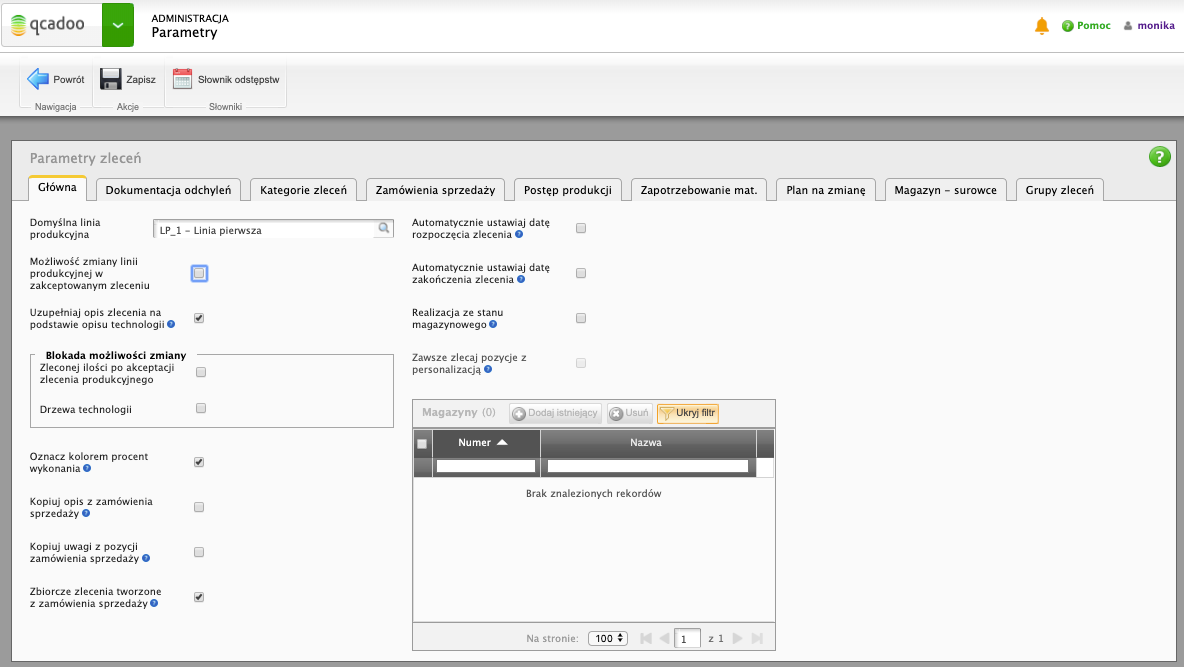
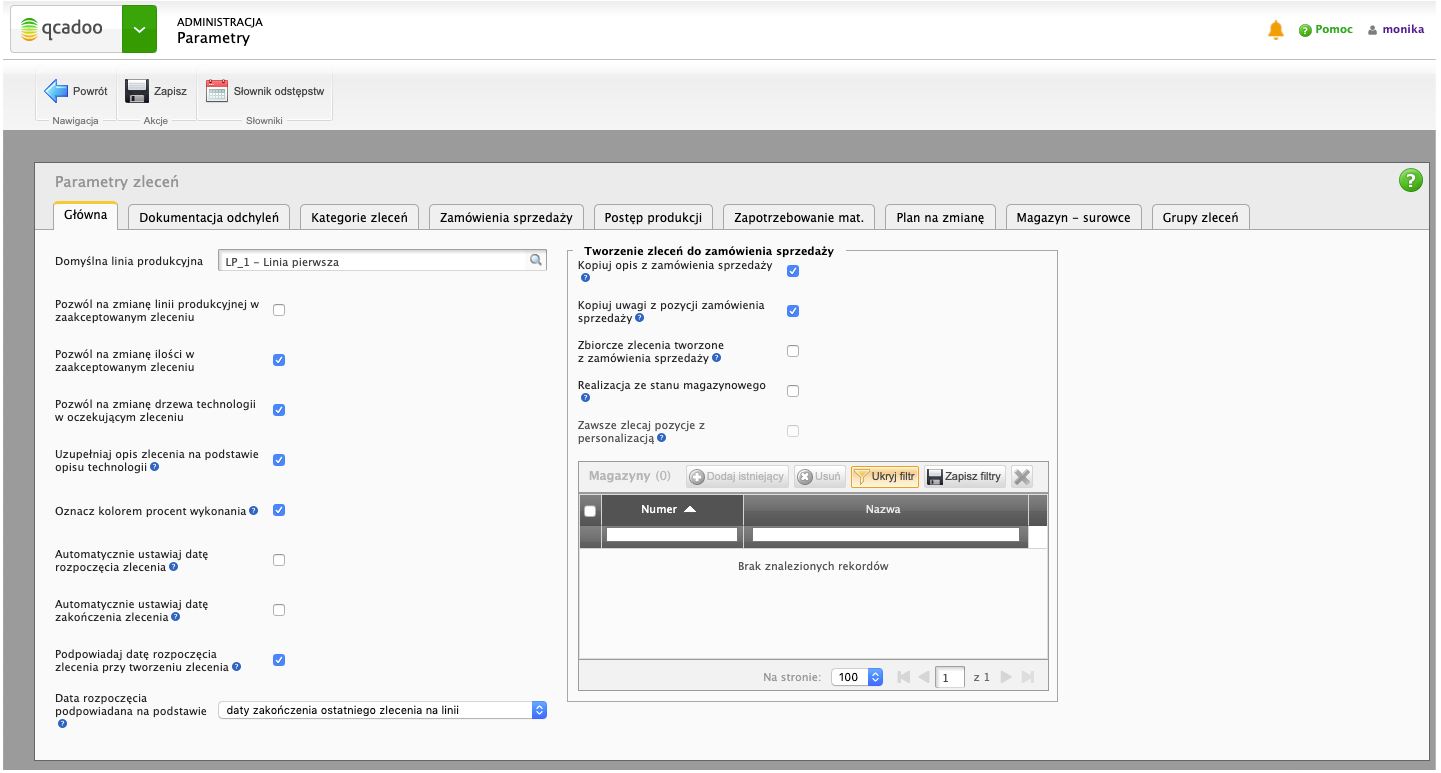
import zleceń nadrzędnych, operacji, podpowiadanie daty rozpoczęcia w zleceniu, parametry dashboardu i inne nowości

diff --git a/pages/planowanie/zlecenia-produkcyjne/zlecenia-produkcyjne.md b/pages/planowanie/zlecenia-produkcyjne/zlecenia-produkcyjne.md
@@ -146,6 +146,12 @@ Tak przygotowany plik zaciągnij do qcadoo. Wszystkie utworzone zlecenia otrzyma
 
 Każde zlecenie produkcyjne musi mieć określone daty realizacji - musimy wiedzieć kiedy planujesz rozpocząć i skończyć prace. Możesz daty określić ręcznie bazując na swoim doświadczeniu. Możesz też skorzystać z pomocy funkcji qcadoo, które pomogą Ci w tym zakresie.
 
+Pierwsza pomoc dotyczyć będzie ustawienia daty rozpoczęcia - zaznacz [parametr](/parametry-zlecen.html#główna) **Podpowiadaj datę rozpoczęcia zlecenia przy tworzeniu zlecenia** i wskaż na podstawie czego data ma być ustalana, a w momencie zapisu, gdy pole z datą będzie puste, uzupełnimy albo datę aktualną, albo datę rozpoczęcia pracy w następnym dniu roboczym, albo datę zakończenia ostatniego zlecenia na tej linii.
+
+Data rozpoczęcia może też przenieść się z zamówienia sprzedaży - jeśli będziesz korzystać z opcji generowania zleceń do zamówienia.
+
+Czas na ustalenie daty zakończenia.
+
 {% include lightbox.html file="czasoch%C5%82onno%C5%9B%C4%87-%20strza%C5%82ki.png" alt="Formularz czasochłnności" caption="Formularz czasochłonności" class="float-right" %}
 
 Pierwszym sposobem jest skorzystanie z **kalkulacji czasochłonności**. Funkcja na podstawie zdefiniowanych norm czasowych w operacji technologii wyznaczy czas trwania zlecenia, od podanej przez Ciebie daty rozpoczęcia (wyznaczając tym samym datę zakończenia). 
@@ -169,60 +175,56 @@ Ponadto pomocnym przy wyznaczaniu dat realizacji będzie **[wykres Gantta](/plan
 
 Zapewne zwróciłeś uwagę, że w zleceniu produkcyjnym jest bardzo dużo zakładek i funkcji na pasku narzędziowym. Z tego rozdziału dowiesz się do czego mogą Ci być potrzebne.
 
-1. **zakładka Rejestracja** - większość z ustawianych tu parametrów jest powieleniem [parametrów z administracji](/parametry-rejestracja-produkcji). Najważniejszy jest sposób rejestracji produkcji - oprócz tego, czy przy rejestracji będzie trzeba odnosić się do każdej operacji czy do całego zlecenia, decyduje również o podejściu do planowania. Jeśli chcesz planować całe zlecenia (na jedną linię/maszynę) i pozwolić na ich wybór w terminalu - ustaw zbiorczy sposób rejestracji. Jeśli ważne jest aby rozbić zlecenie na operacje, każdą z operacji przypisać do właściwej maszyny i pozwolić na wybór w terminalu zadania operacyjnego - ustaw rejestrację do każdej operacji.
+1. **zakładka Daty** - daty w zleceniu produkcyjnym mogą zmieniać się na każdym etapie życia zlecenia - zarówno podczas ustalania warunków produkcji, jak już po akceptacji, czy nawet już po rozpoczęciu prac. W zakładce Główna widzisz aktualne daty. W zakładce Daty zobaczysz jak wyglądały modyfikacje. Oprócz analizy zmian dat możesz zostawiać tu przyczyny zmian (a nawet wymusić ich zostawianie odpowiednio ustawiając [parametry](/parametry-zlecen.html#dokumentacja-odchyleń)). W tym temacie zerknij też w [raport odchyleń planu](/raport-odchylen-planu).
 
-
-2. **zakładka Daty** - daty w zleceniu produkcyjnym mogą zmieniać się na każdym etapie życia zlecenia - zarówno podczas ustalania warunków produkcji, jak już po akceptacji, czy nawet już po rozpoczęciu prac. W zakładce Główna widzisz aktualne daty. W zakładce Daty zobaczysz jak wyglądały modyfikacje. Oprócz analizy zmian dat możesz zostawiać tu przyczyny zmian (a nawet wymusić ich zostawianie odpowiednio ustawiając [parametry](/parametry-zlecen.html#dokumentacja-odchyleń)). W tym temacie zerknij też w [raport odchyleń planu](/raport-odchylen-planu).
-
-
-3. **zakładka Ilość produktu** - w zakładce Główna widzisz aktualną ilość planowaną. Jeśli już po akceptacji zlecenia ilość była zmieniana zobaczysz ją jako ilość skorygowaną. Przy zmianie, podobnie jak w przypadku dat, można zostawić przyczynę korekty. 
+2. **zakładka Ilość produktu** - w zakładce Główna widzisz aktualną ilość planowaną. Jeśli już po akceptacji zlecenia ilość była zmieniana zobaczysz ją jako ilość skorygowaną. Przy zmianie, podobnie jak w przypadku dat, można zostawić przyczynę korekty. 
 Ponadto w zakładce widać:
 - ile już wyprodukowano (ilość z zaakceptowanych rekordów rejestracji)
 - jaki jest procent wykonania
 - ile zarejestrowano wyprodukowanych braków
 - ile pozostało jeszcze do wyprodukowania
 
+3. **zakładka Zamówienie sprzedaży** - zobaczysz tutaj z jakim zamówieniem sprzedaży dane zlecenie jest powiązane. Możesz tu również odłączyć zlecenie od zamówienia, czy spiąć je z zamówieniem.
 
-4. **zakładka Zamówienie sprzedaży** - zobaczysz tutaj z jakim zamówieniem sprzedaży dane zlecenie jest powiązane. Możesz tu również odłączyć zlecenie od zamówienia, czy spiąć je z zamówieniem.
+4. **zakładka Powiązane zlecenia** - w tabeli zobaczysz wszytkie powiązane zlecenia na komponenty
 
+5. **przycisk Technologia** - umożliwia naniesienie zmian w technologii tego zlecenia. Ze szczegółami zapoznasz się [tutaj](/parametry-dla-zlecenia).
 
-5. **zakładka Magazyn - surowce** - jeśli chcesz uruchamiać produkcję dopiero wtedy, gdy wszystkie surowce będą dostępne, to odznacz parametr. Nie pozwolimy wówczas zaakceptować zlecenia, gdy stany nie będą wystarczające.
+6. **przycisk Parametry zlecenia** - a w nim następujące zakładki:
+- **zakładka Rejestracja** - większość z ustawianych tu parametrów jest powieleniem [parametrów z administracji](/parametry-rejestracja-produkcji). Najważniejszy jest sposób rejestracji produkcji - oprócz tego, czy przy rejestracji będzie trzeba odnosić się do każdej operacji czy do całego zlecenia, decyduje również o podejściu do planowania. Jeśli chcesz planować całe zlecenia (na jedną linię/maszynę) i pozwolić na ich wybór w terminalu - ustaw zbiorczy sposób rejestracji. Jeśli ważne jest aby rozbić zlecenie na operacje, każdą z operacji przypisać do właściwej maszyny i pozwolić na wybór w terminalu zadania operacyjnego - ustaw rejestrację do każdej operacji.
+- **zakładka Magazyn - surowce** - jeśli chcesz uruchamiać produkcję dopiero wtedy, gdy wszystkie surowce będą dostępne, to odznacz parametr. Nie pozwolimy wówczas zaakceptować zlecenia, gdy stany nie będą wystarczające.
 
-6. **zakładka Powiązane zlecenia** - w tabeli zobaczysz wszytkie powiązane zlecenia na komponenty
+7. **przycisk Utwórz zadania operacyjne** - jeśli zależy Ci na tym aby pracownicy wybierali w terminalu zadania do wykonania, ale nie chcesz wykonywać planowania na stację roboczą i pracownika, możesz pójść na skróty - kliknij przycisk, a do każdej operacji z technologii zostanie założone zadanie operacyjne. Funkcja możliwa do wywołania dla zleceń zaakceptowanych z rejestracją do każdej operacji. 
 
-7. **przycisk Technologia** - umożliwia naniesienie zmian w technologii tego zlecenia. Ze szczegółami zapoznasz się [tutaj](/parametry-dla-zlecenia).
+8. **przycisk Pokaż zadania operacyjne** - pozwala na przeanalizowanie zadań operacyjnych powiązanych z danym zleceniem produkcyjnym. Zadania operacyjne opisane są [tutaj](/planowanie-operacyjne)
 
-8. **przycisk Utwórz zadania operacyjne** - jeśli zależy Ci na tym aby pracownicy wybierali w terminalu zadania do wykonania, ale nie chcesz wykonywać planowania na stację roboczą i pracownika, możesz pójść na skróty - kliknij przycisk, a do każdej operacji z technologii zostanie założone zadanie operacyjne. Funkcja możliwa do wywołania dla zleceń zaakceptowanych z rejestracją do każdej operacji. 
+9. **przycisk Przezbrojenia** - jeśli na podstawie zdefiniowanych [norm](/normy-przezbrojen) wynika, że przed rozpoczęciem zlecenia konieczne jest przezbrojenie linii, to taka informacja będzie dostępna pod tym przyciskiem.
 
-9. **przycisk Pokaż zadania operacyjne** - pozwala na przeanalizowanie zadań operacyjnych powiązanych z danym zleceniem produkcyjnym. Zadania operacyjne opisane są [tutaj](/planowanie-operacyjne)
+10. **przycisk Pokaż przestoje** - przycisk uruchamia listę [przestojów](/przestoje-zlecenia) zaewidencjonowanych do tego zlecenia.
 
-10. **przycisk Przezbrojenia** - jeśli na podstawie zdefiniowanych [norm](/normy-przezbrojen) wynika, że przed rozpoczęciem zlecenia konieczne jest przezbrojenie linii, to taka informacja będzie dostępna pod tym przyciskiem.
-
-11. **przycisk Pokaż przestoje** - przycisk uruchamia listę [przestojów](/przestoje-zlecenia) zaewidencjonowanych do tego zlecenia.
-
-12. **przycisk Ilości wyprodukowane/użyte** - w momencie akceptacji zlecenia produkcyjnego tworzy się jego szczegółowe zapotrzebowanie - czyli szczegółowo rozpisywana jest lista potrzebnych produktów do zlecenia oraz produktów, które będą efektem Twojej pracy. Podstawą do wygenerowania szczegółowego zapotrzebowania jest technologia. Od momentu akceptacji zlecenia technologia jest nie do zmiany - teraz wszelkie modyfikacje produktowe (np. wprowadzenie zamiennika) możesz przeprowadzać z tego poziomu. 
+11. **przycisk Ilości wyprodukowane/użyte** - w momencie akceptacji zlecenia produkcyjnego tworzy się jego szczegółowe zapotrzebowanie - czyli szczegółowo rozpisywana jest lista potrzebnych produktów do zlecenia oraz produktów, które będą efektem Twojej pracy. Podstawą do wygenerowania szczegółowego zapotrzebowania jest technologia. Od momentu akceptacji zlecenia technologia jest nie do zmiany - teraz wszelkie modyfikacje produktowe (np. wprowadzenie zamiennika) możesz przeprowadzać z tego poziomu. 
 Funkcjonalność przyda się również do analizy zaraportowanego zużycia czy wyprodukowania każdego z produktów w procesie. 
 Ze szczegółami działania zapoznasz się w tej [dokumentacji](/zmiana-stanu-zapotrzebowania).
 
-13. **przycisk Czasochłonność** - funkcjonalność opisana na etapie wyznaczania czasów realizacji zlecenia
+12. **przycisk Czasochłonność** - funkcjonalność opisana na etapie wyznaczania czasów realizacji zlecenia
 
-14. **przycisk Ceny** - skorzystasz z niego po to, by ustalić koszty materiałowe zlecenia. Przeanalizujesz tutaj: ostatnią cenę zakupu, cenę średnio ważoną czy przyjęty koszt nominalny. Ponadto:
+13. **przycisk Ceny** - skorzystasz z niego po to, by ustalić koszty materiałowe zlecenia. Przeanalizujesz tutaj: ostatnią cenę zakupu, cenę średnio ważoną czy przyjęty koszt nominalny. Ponadto:
 - dowiesz się jakie konkretne dokumenty RW zostały wystawione do zlecenia, o jakich partiach i jakich cenach
 - wyliczymy dla Ciebie TKW
 - zapiszesz w zleceniu dodatkowe koszty bezpośrednie, zwiększające koszty całkowite zlecenia
 Więcej informacji znajdziesz [tutaj](/ceny-materialow-dla-zlecenia)
 
-15. **przycisk Koszty** - pozwala na wyliczenie planowanych kosztów zlecenia na podstawie technologii. Po szczegóły odsyłam do [dokumentacji](/koszty-zlecenia).
+14. **przycisk Koszty** - pozwala na wyliczenie planowanych kosztów zlecenia na podstawie technologii. Po szczegóły odsyłam do [dokumentacji](/koszty-zlecenia).
 
-16. **przycisk Produkcja na zmianę** - daje możliwość rozplanowania produkcji ilości zleconej na kolejne zmiany. Do wykorzystania w firmach produkujących seryjnie, z dającą się wyliczyć na podstawie norm, wydajnością danej linii. Dokładniejsze wyjaśnienia i instrukcję znajdziesz [tutaj](/produkcja-na-zmiane).
+15. **przycisk Produkcja na zmianę** - daje możliwość rozplanowania produkcji ilości zleconej na kolejne zmiany. Do wykorzystania w firmach produkujących seryjnie, z dającą się wyliczyć na podstawie norm, wydajnością danej linii. Dokładniejsze wyjaśnienia i instrukcję znajdziesz [tutaj](/produkcja-na-zmiane).
 
-17. **przycisk Śledzenie partii** - jedno słowo - traceability. Chcesz więcej? Odsyłam do [dokumentacji](/sledzenie-partii-zlecenia).
+16. **przycisk Śledzenie partii** - jedno słowo - traceability. Chcesz więcej? Odsyłam do [dokumentacji](/sledzenie-partii-zlecenia).
 
-18. **przycisk Dostępność surowców** - pozwala na analizę stanów magazynowych surowców potrzebnych do produkcji. Sprawdzisz stan na magazynach, z których zaplanowano rozchód, ale też na pozostałych magazynach zakładu - na wypadek, gdyby trzeba było produktu poszukiwać.
+7. **przycisk Dostępność surowców** - pozwala na analizę stanów magazynowych surowców potrzebnych do produkcji. Sprawdzisz stan na magazynach, z których zaplanowano rozchód, ale też na pozostałych magazynach zakładu - na wypadek, gdyby trzeba było produktu poszukiwać.
 
-19. **przycisk Wydania wewnętrzne** - temat wydań wewnętrznych omówiony jest [tutaj](/wydania-wewnetrzne.html). Z tego poziomu możesz zobaczyć wydania utworzone dla danego zlecenia
+18. **przycisk Wydania wewnętrzne** - temat wydań wewnętrznych omówiony jest [tutaj](/wydania-wewnetrzne.html). Z tego poziomu możesz zobaczyć wydania utworzone dla danego zlecenia
 
-20. **przycisk Pokrycie zapotrzebowania** - umożliwa:
+19. **przycisk Pokrycie zapotrzebowania** - umożliwa:
 - ustalenie jakie surowce i komponenty będą potrzebne do produkcji
 - sprawdzenie, czy w momencie planowanego rozpoczęcia zlecenia produkty będą dostępne na magazynie (funkcjonalność analizuje nie tylko dane zlecenie, ale też inne otwarte zlecenia korzystające z danych produktów)
 - uzyskanie informacji o planowanych dostawach na potrzebne produkty 
@@ -231,7 +233,7 @@ Więcej informacji znajdziesz [tutaj](/ceny-materialow-dla-zlecenia)
 - ustalenie stanu magazynowego zamienników
 Po więcej odsyłam do tej [dokumentacji](/pokrycie-zapotrzebowania).
 
-21. **przycisk Zlecenia na komponenty** - jeśli zaplanowane w technologii komponenty chcesz produkować zawsze (niezależnie od tego, czy są na magazynie, czy nie), to do generowania zleceń na komponenty wybierz tą funkcjonalność.
+20. **przycisk Zlecenia na komponenty** - jeśli zaplanowane w technologii komponenty chcesz produkować zawsze (niezależnie od tego, czy są na magazynie, czy nie), to do generowania zleceń na komponenty wybierz tą funkcjonalność.
 
 Ponadto z listy zleceń możesz wygenerować: [zapotrzebowanie materiałowe](/zapotrzebowanie-materialowe) i [karty pracy](/karty-pracy).
 

diff --git a/pages/administracja/parametry/parametry-zlecenia.md b/pages/administracja/parametry/parametry-zlecenia.md
@@ -15,31 +15,38 @@ Do dyspozycji masz następujące parametry:
 
 1. **Domyślna linia produkcyjna** - ustaw tą linię, na której najczęściej realizujesz zlecenia. Podpowiemy Ci ją przy wystawianiu zlecenia produkcyjnego (ręcznie, a także przez generowanie ze zamówienia sprzedaży). Nie musisz linii uzupełniać tutaj. Jeśli potrafisz przypisać linię do technologii (wybierasz linię w zależności od tego jaki wyrób ma być produkowany) - uzupełnij ją w zasięgu. Podpowiadanie w zleceniu zadziała tak: jeśli w technologii uzupełniona linia, to ją zaciągamy do zlecenia. Jeśli nie - sprawdzamy, czy jest w administracji w parametrach podana domyślna - jeśli tak: zaciągamy do zlecenia. Jeśli nie - linię zostawiamy pustą, będziesz musiał ją wskazać przed akceptacją zlecenia.
 
-2. **Możliwość zmiany linii produkcyjnej w zaakceptowanym zleceniu** - zaznacz parametr jeśli chcesz pozwolić na ewentualne przesunięcia zaakceptowanego już zlecenia na inną linię. Jeśli nie - uznajesz, że zaakceptowane zlecenie nie powinno być już tak radykalnie zmieniane -> zostaw parametr niezaznaczony
+2. **Pozwól na zmianę linii produkcyjnej w zaakceptowanym zleceniu** - zaznacz parametr jeśli chcesz pozwolić na ewentualne przesunięcia zaakceptowanego już zlecenia na inną linię. Jeśli nie - uznajesz, że zaakceptowane zlecenie nie powinno być już tak radykalnie zmieniane -> zostaw parametr niezaznaczony
 
-3. **Uzupełniaj opis zlecenia na podstawie opisu technologii** - w technologii możesz wprowadzić opis. I możemy go podpowiedzieć do zlecenia, do pola opis (po to by pokazać pracownikom np. w terminalu) - jeśli chcesz, aby tak się stało, zaznacz parametr
+3. **Pozwól na zmianę ilości w zaakceptowanym zleceniu** - zaznacz jeśli chcesz pozwolić na zmianę ilości w zaakceptowanym zleceniu produkcyjnym
 
-4. **Blokada możliwości zmiany zleconej ilości po akceptacji zlecenia produkcyjnego** - zaznacz jeśli nie chcesz pozwolić na zmianę ilości w zaakceptowanym zleceniu produkcyjnym
+4. **Pozwól na zmianę drzewa technologii w oczekującym zleceniu** - qcadoo pozwala na zmianę technologii w zleceniu. Oznacza to, że standardowo produkt wytwarzany jest wg konkretnego sposobu, ale w wyjątkowych sytuacjach, pod dane zlecenie, można wprowadzić zmiany i wyprodukować wyrób trochę inaczej. Jeśli nie chcesz, aby pracownicy zmieniali technologię i żeby zawsze produkty były realizowane w tym sam sposób, nie zaznaczaj parametru, a nie pozwolimy na modyfikację technologii w zleceniu.
 
-5. **Blokada możliwości zmiany drzewa technologii** - qcadoo pozwala na zmianę technologii w zleceniu. Oznacza to, że standardowo produkt wytwarzany jest wg konkretnego sposobu, ale w wyjątkowych sytuacjach, pod dane zlecenie, można wprowadzić zmiany i wyprodukować wyrób trochę inaczej. Jeśli nie chcesz, aby pracownicy zmieniali technologię i żeby zawsze produkty były realizowane w tym sam sposób, zaznacz parametr, a nie pozwolimy na modyfikację technologii w zleceniu.
+5. **Uzupełniaj opis zlecenia na podstawie opisu technologii** - w technologii możesz wprowadzić opis. I możemy go podpowiedzieć do zlecenia, do pola opis (po to by pokazać pracownikom np. w terminalu) - jeśli chcesz, aby tak się stało, zaznacz parametr
 
-6. **Automatycznie ustawiaj datę rozpoczęcia zlecenia** - zaznacz parametr, jeśli chcesz, aby w zleceniu produkcyjnym ustawiła się aktualna data w momencie ustawiania statusu na rozpoczęte
+6. **Oznacz kolorem procent wykonania** - w liście [planowanych zleceń](/planowanie-zlecen) jest kolumna Wykonanie %. Przedstawia ona informację o tym ile procent ilości zleconej jest już wyprodukowane. Jeśli chcesz wzmocnić efekt - zaznacz parametr, a oznaczymy kolumnę kolorem. Czerwone będą te zlecenia, które nie są jeszcze rozpoczęte (0% wykonania), zielone - te już całkowicie zrealizowane (100% wykonania), a źółte te, dla których praca trwa (wykonanie między 0 a 100%)
 
-7. **Automatycznie ustawiaj datę zakończenia zlecenia** - zaznacz parametr, jeśli chcesz, abyśmy uzupełnili datę zakończenia zlecenia, w momencie ustawiania statusu na zakończone
+7. **Automatycznie ustawiaj datę rozpoczęcia zlecenia** - zaznacz parametr, jeśli chcesz, aby w zleceniu produkcyjnym ustawiła się aktualna data w momencie ustawiania statusu na rozpoczęte
 
-8. **Oznacz kolorem procent wykonania** - w liście [planowanych zleceń](/planowanie-zlecen) jest kolumna Wykonanie %. Przedstawia ona informację o tym ile procent ilości zleconej jest już wyprodukowane. Jeśli chcesz wzmocnić efekt - zaznacz parametr, a oznaczymy kolumnę kolorem. Czerwone będą te zlecenia, które nie są jeszcze rozpoczęte (0% wykonania), zielone - te już całkowicie zrealizowane (100% wykonania), a źółte te, dla których praca trwa (wykonanie między 0 a 100%)
+8. **Automatycznie ustawiaj datę zakończenia zlecenia** - zaznacz parametr, jeśli chcesz, abyśmy uzupełnili datę zakończenia zlecenia, w momencie ustawiania statusu na zakończone
 
-9. **Kopiuj opis z zamówienia sprzedaży** - zaznacz parametr, jeśli zlecenia produkcyjne utworzone z zamówienia sprzedaży mają otrzymać opis wprowadzony w zamówieniu sprzedazy
+9. **Podpowiadaj datę rozpoczęcia zlecenia przy tworzeniu zlecenia** - jeśli zaznaczysz parametr, to podczas dodawania zlecenia produkcyjnego podpowiemy Ci datę rozpoczęcia. Wskaż niżej jaka ma być ta data.
 
-10. **Kopiuj uwagi z pozycji zamówienia sprzedaży** - zaznacz parametr, jeśli chcesz, aby uwagi wprowadzone w pozycji zamówienia sprzedaży, zostały przeniesione do opisu zlecenia produkcyjnego (utworzonego poprzez funkcję Utwórz wiele zleceń produkcyjnych)
+10. **Data rozpoczęcia podpowiadana na podstawie** - lista uaktywni się, gdy zaznaczysz parametr Podpowiadaj datę rozpoczęcia zlecenia przy tworzeniu zlecenia. Do wyboru masz:
+- _aktualnej daty_ - data rozpoczęcia zostanie ustawiona na podstawie momentu zapisu zlecenia
+- _początku pierwszej zmiany kolejnego dnia_ - podpowiemy datę początku Twojej pracy następnego dnia (czyli przyda się ta opcja, gdy dziś zakładasz zlecenia na jutro)
+- _daty zakończenia ostatniego zlecenia na linii_ - namierzymy ostatnie zlecenie na linii produkcyjnej i to dodawane układamy bezpośrednio po nim. Jeśli dodatkowo będziesz wyliczać czas trwania w qcadoo na podstawie [produkcji na zmianę](/produkcja-na-zmiane) albo [czasochłonności technologii](/czasochlonnosc-zlecenia) to w łatwy sposób ustalisz kompletny plan produkcyjny.
 
-11. **Zbiorcze zlecenia tworzone z zamówienia sprzedaży** - zaznacz parametr jeśli chcesz, aby podczas tworzenia zleceń do zamówień sprzedaży, zbijały się one w zbiorcze z dokładnością do tego samego produktu i tej samej technologii
+11. **Kopiuj opis z zamówienia sprzedaży** - zaznacz parametr, jeśli zlecenia produkcyjne utworzone z zamówienia sprzedaży mają otrzymać opis wprowadzony w zamówieniu sprzedazy
 
-12. **Realizacja ze stanu magazynowego** - zaznacz parametr jeśli chcesz, aby funkcja tworzenia wielu zleceń produkcyjnych do zamówienia sprzedaży sprawdzała, czy zamówiony produkt trzeba produkować, czy można pobrać z istniejacego stanu magazynowego. Zlecenia produkcyjne będą utworzone tylko na tą część zamówionych produktów, dla których nie został zabezpieczony stan magazynowy. Jeśli chcesz aby funkcja realizacji ze stanu magazynowego działała poprawnie, wskaż w tabeli poniżej na jakich magazynach mamy sprawdzać dostępny stan. Funkcja ta analizuje tylko stany zachowane w qcadoo - nie sprawdza stanów w systemie zewnętrznym.
+12. **Kopiuj uwagi z pozycji zamówienia sprzedaży** - zaznacz parametr, jeśli chcesz, aby uwagi wprowadzone w pozycji zamówienia sprzedaży, zostały przeniesione do opisu zlecenia produkcyjnego (utworzonego poprzez funkcję Utwórz wiele zleceń produkcyjnych)
 
-13. **Zawsze zlecaj pozycje z personalizacją** - parametr uaktywni się po zaznaczeniu _Realizacja ze stanu magazynowego_. Jeśli w uwagach pozycji zamówienia sprzedaży wprowadzasz szczegóły zamówionego produktu, które sprawiają, że produkt wymaga zmian w procesie produkcyjnym specjalnie na życzenie klienta (czyli produkt musi zostać wyprodukowany i nie może być pobrany ze stanu produkt standardowy), to zaznacz parametr, a zawsze do tej pozycji utworzymy zlecenie produkcyjne na ilość zamówioną przez klienta
+13. **Zbiorcze zlecenia tworzone z zamówienia sprzedaży** - zaznacz parametr jeśli chcesz, aby podczas tworzenia zleceń do zamówień sprzedaży, zbijały się one w zbiorcze z dokładnością do tego samego produktu i tej samej technologii
 
-14. **Magazyny** - tabela uaktywnia się po zaznaczeniu parametru _Realizacja ze stanu magazynowego_. Podaj magazyny, na których mamy poszukiwać dostępnego stanu zamówionych produktów
+14. **Realizacja ze stanu magazynowego** - zaznacz parametr jeśli chcesz, aby funkcja tworzenia wielu zleceń produkcyjnych do zamówienia sprzedaży sprawdzała, czy zamówiony produkt trzeba produkować, czy można pobrać z istniejacego stanu magazynowego. Zlecenia produkcyjne będą utworzone tylko na tą część zamówionych produktów, dla których nie został zabezpieczony stan magazynowy. Jeśli chcesz aby funkcja realizacji ze stanu magazynowego działała poprawnie, wskaż w tabeli poniżej na jakich magazynach mamy sprawdzać dostępny stan. Funkcja ta analizuje tylko stany zachowane w qcadoo - nie sprawdza stanów w systemie zewnętrznym.
+
+15. **Zawsze zlecaj pozycje z personalizacją** - parametr uaktywni się po zaznaczeniu _Realizacja ze stanu magazynowego_. Jeśli w uwagach pozycji zamówienia sprzedaży wprowadzasz szczegóły zamówionego produktu, które sprawiają, że produkt wymaga zmian w procesie produkcyjnym specjalnie na życzenie klienta (czyli produkt musi zostać wyprodukowany i nie może być pobrany ze stanu produkt standardowy), to zaznacz parametr, a zawsze do tej pozycji utworzymy zlecenie produkcyjne na ilość zamówioną przez klienta
+
+16. **Magazyny** - tabela uaktywnia się po zaznaczeniu parametru _Realizacja ze stanu magazynowego_. Podaj magazyny, na których mamy poszukiwać dostępnego stanu zamówionych produktów
 
 ---
 

diff --git a/pages/technologie/operacje/operacje.md b/pages/technologie/operacje/operacje.md
@@ -1,10 +1,9 @@
 ---
 title: "Operacje"
 permalink: operacje.html 
-toc: false
 ---
 
-"Operacje" gromadzą opisy wszystkich prac obserwowanych na produkcji, wykonywanych zarówno przy udziale maszyn jak i przez samych pracowników. Operacje wprowadzamy oddzielnie definiując dla każdej czasy i koszty ich wykonania, tutaj możemy także określić informacje jakie chcemy mieć zawarte na kartach pracy. 
+Operacje gromadzą opisy wszystkich prac realizowanych na produkcji, wykonywanych zarówno przy udziale maszyn jak i przez samych pracowników. Operacje wprowadzamy oddzielnie, definiując dla każdej czasy i koszty ich wykonania. To tutaj możemy także określić informacje jakie chcemy mieć zawarte na kartach pracy. 
 
 
 ## Dodawanie nowej operacji ##    
@@ -34,3 +33,32 @@ Operacje wprowadzone w tym miejscu traktuj jako szablony - dopiero utworzenie z 
 Zaciągnięcie operacji do drzewa technologii tworzy osobny byt: operację technologii. Możesz zmieniać operację w drzewie (podając np. inne normy czasowe), a nie wpłynie to na zmianę operacji - szablonu. Podobnie --> modyfikując operację - szablon, nie zostaną zmienione żadne operacje użyte w technologiach. 
 
 {% include callout.html content="Jeśli chcesz zmienić operację (np. pod kątem norm czasowych) i chcesz aby te zmiany obowiązywały w technologiach, to oprócz modyfikacji w operacjach - szablonach, musisz nanieść zmiany w istniejących technologiach. Jeśli status technologii nie pozwala na edycję - stwórz przez kopiowanie jej nową wersję, wprowadź poprawki i zaakceptuj. Warto też zaznaczyć nową wersję jako domyślną, a starą wycofać" type="warning" %}
+
+
+## Import operacji z pliku Excel
+
+Import z akrusza .xlsx znasz już zapewne z innych miejsc w systemie --> o tym jak wygląda proces importu dowiesz się czytając tą [dokumentację]((/import-z-excel)). 
+
+Operacje możesz albo zdefiniować korzystając z arkusza, albo możesz je poprzez import zaktualizować. Druga opcja przyda Ci się szczególnie wtedy, gdy chcesz dostosować normy czasowe do bieżącej sytuacji (np. po przeanalizowaniu danych z rozliczenia produkcji z dłuższego okresu). Taka modyfikacja, wraz z [zbiorczą zmianą parametrów](/zmiana-parametrow) pozwoli Ci na szybkie odświeżenie technologii.
+
+Aby zaimportować operacje z pliku Excel wejdź w **Technologie > Operacje**, kliknij przycisk {% include inline_image.html file="przyciskImportujOperacjeXLSX.png" alt="Przycisk Importuj operacje z .xlsx" %} **Importuj operacje z .xlsx**, pobierz szablon i wypełnij go danymi. Koniecznie uzupełnij dwie pierwsze kolumny:
+- **numer** (kolumna A) - musi być unikalny (czyli dana numer operacji może wystąpić tylko raz). Pamiętaj, że numer nie musi być liczbą, potraktuj to pole jako skrótową nazwę, taką, po której użytkownicy będą rozpoznawać daną czynność
+- **nazwa** (kolumna B) - pełna nazwa operacji. Może być tożsama z numerem.
+
+Możesz dodatkowo wskazać następujące dane:
+- **produkt** (kolumna C) - numer produktu zdefiniowanego w qcadoo. Produkt ten podpowiemy w [drzewie technologii](/technologie-szczegoly.html#budowa-drzewa-technologii) jako efekt wyjściowy tej operacji,
+- **opis** (kolumna D) - dodatkowe informacje o sposobie wykonania operacji.
+- **dział** (kolumna E) - numer działu zdefiniowanego w qcadoo,
+- **linia** (kolumna F) - numer linii zdefiniowanej w qcadoo. Wskazana linia musi należeć do popdanego wyżej działu
+- **stacja robocza** (kolumna G) - numer stacji roboczej zdefiniowanej w qcadoo. Wskazana stacja robocza musi należeć do podanej wyżej linii. 
+
+{% include callout.html content="Dział, linia i stacja robocza uzupełniane są po to, by w technologii mogły z automatu uzupełnić się informacje o zasięgu i by podczas układania planu produkcyjnego wiadomo było, gdzie czynność ma być realizowana." type="warning" %}
+
+- **TPZ** (kolumna H) - podaj w sekundach czas przygotowawczo-zakończeniowy operacji,
+- **TJ** (kolumna I) - podaj w sekundach czas jednostkowy operacji (wykonania pojedynczego cyklu),
+- **ile w cyklu** (kolumna J) - podaj ile jednostek produktu wykonywanych jest w jednym cyklu,
+- **dodatkowy czas** (kolumna K) - podaj w sekundach dodatkowy czas, który musi upłynąć, aby móc zrealizować kolejną operację w drzewie technologii.
+
+{% include callout.html content="Dane: TPZ, TJ, ile w cyklu i dodatkowy czas to informacje zapisywane w zakładce [normy czasowe](/normy-czasowe) operacji." type="warning" %}
+
+Tak przygotowany plik zaciągnij do qcadoo i wykonaj funkcję importu. W razie błędów - przeanalizuj logi, popraw dane w pliku i spróbuj ponownie.

diff --git a/pages/administracja/parametry/parametry-technologia.md b/pages/administracja/parametry/parametry-technologia.md
@@ -5,6 +5,24 @@ permalink: parametry-technologia.html
 
 Jeśli produkujesz wyroby z oznaczeniem rozmiarowym, a także wykorzystujesz do definiowania technologii generatora, to zapewne zainteresuje Cię parametr znajdujący się w Administracja > Parametry > Technologia
 
-{% include lightbox.html file="administracjaParametryTechnologia.png" alt="Parametry technologii" caption="Parametry technologii" %}
+## Główna
 
-1. **Przenoś rozmiar do utworzonych z generatora produktów** - jeśli zaznaczysz parametr, to wszystkie półprodukty z automatu utworzone przez generator dostaną takie rozmiary, jak wyrób dla którego tworzona jest technologia
+W zakładce Główna znajdują się ogólne parametry do technologii.
+
+{% include lightbox.html file="administracjaParametryTechnologiaGlowna.png" alt="Parametry technologii - zakładka Główna" caption="Parametry technologii - zakładka Główna" %}
+
+1. **Uzupełniaj magazyny dla produktów w przepływie podczas sprawdzania technologii** - zaznacz parametr jeśli chcesz, abyśmy z automatu (podczas sprawdzania technologii) wywoływali funkcję uzupełniania magazynów w zakładce _Przepływ_ w technologii. Nie będziesz musiał wtedy klikać każdorazowo przycisku _Uzupełnij magazyny w produktach_. Pamiętaj, że gdy w procesie korzystasz z różnych magazynów (do jednej operacji pobierasz produkty z różnych lokalizacji) to zaznaczenie tego parametru nie jest dobrym pomysłem - sprawdzenie technologii spowoduje nadpisanie Twoich ręcznych zmian w przepływach, wartościami domyślnymi.
+
+2. **Przenoś rozmiar do utworzonych z generatora produktów** - jeśli zaznaczysz parametr, to wszystkie półprodukty z automatu utworzone przez generator dostaną takie rozmiary, jak wyrób dla którego tworzona jest technologia
+
+## Zasięg
+
+W zakładce zasięg możesz ustawić wartości domyślne dla zasięgu definiowanego w technologiach.
+
+{% include lightbox.html file="administracjaParametryTechnologiaZasieg.png" alt="Parametry technologii - zakładka Zasięg" caption="Parametry technologii - zakładka Zasięg" %}
+
+1. **Zasięg** - do wyboru: 
+- _jeden dział_ - jeśli cała produkcja będzie realizowana na tym samym dziale, albo (gdy informacja o dziale ma dla Ciebie drugorzędne znaczenie), gdy wszystkie surowce będą pobierane z tego samego magazynu
+- _wiele działów_ - jeśli produkcja realizowana jest z wielu działów, a surowce pobierane do produkcji pobierane są z różnych magazynów (takich jak przypisane do działu)
+
+2. **Dział** - pole uaktywni się, gdy zasięg = jeden dział. Wskaż jaki dział domyślnie mamy podpowiadać podczas tworzenia technologii. Jeśli dział ten będzie miał przypisane magazyny - od razu zostaną uzupełnione informacje w przepływach technologii. Jeśli dodatkowo zaznaczysz parametr Uzupełniaj magazyny dla produktów w przepływie podczas sprawdzania technologii magazyny zostaną z automatu przypisane do produktów. A tworzenie technologii znacznie się przyspieszy.

diff --git a/pages/analizy/rozliczenie-produkcji.md b/pages/analizy/rozliczenie-produkcji.md
@@ -7,7 +7,7 @@ Rozliczanie produkcji przynosi dwie korzyści.
 - na podstawie zbieranych danych można zrewidować i uczynić bliższymi prawdy nasze założenia produkcyjne co do czasów realizacji zleceń i ilości potrzebnych surowców
 - wiadomo ile faktycznie kosztowało nas zrealizowanie danego zlecenia produkcyjnego i wyeliminowanie na przyszłość zbędne koszty
 
-Funkcjonalność " **Rozliczenie produkcji**" pozwala również na tworzenie i gromadzenie raportów i zestawień z rejestracji produkcji (dla wariantów: "zbiorczego" i "dla każdej operacji"). 
+Funkcjonalność "**Rozliczenie produkcji**" pozwala również na tworzenie i gromadzenie raportów i zestawień z rejestracji produkcji (dla wariantów: "zbiorczego" i "dla każdej operacji"). 
   
 {% include callout.html content="Gdy tworzymy raport rozliczenia produkcji dla danego zlecenia/zleceń produkcyjnego/produkcyjnych, bierzemy pod uwagę tylko zarejestrowane meldunki zwrotne (patrz odpowiednio: [Zbiorcze rejestrowanie produkcji](/zbiorcze-rejestrowanie-produkcji) i [Rejestracja każdej operacji](/rejestracja-kazdej-operacji)) w stanie **Zaakceptowane**." type="info" %} 
 
@@ -15,9 +15,9 @@ Funkcjonalność " **Rozliczenie produkcji**" pozwala również na tworzenie i g
 
 Aby wygenerować nowy raport wybieramy:
 
-**REJESTRACJA >> Rozliczenie produkcji >> {% include inline_image.html file="newIcon24.png" %} Dodaj nowy**
+**Analizy >> Rozliczenie produkcji >> {% include inline_image.html file="newIcon24.png" %} Dodaj nowy**
 
-{% include lightbox.html file="rejestracja-%20rozliczenie%20produkcji.png" alt="Rozliczenie produkcji" caption="Rozliczenie produkcji" %}
+{% include lightbox.html file="analizyRozliczenieProdukcjiNowe.png" alt="Rozliczenie produkcji" caption="Rozliczenie produkcji" %}
 
 1. W pierwszym kroku możemy nadać "Nazwę" tego raportu. Nazwa ta powinna identyfikować raport tak, by łatwiej było zidentyfikować go na liście wśród innych. Opcjonalnie dodajemy "Opis" zlecenia.  
   
@@ -27,7 +27,7 @@ Aby wygenerować nowy raport wybieramy:
   
 4. Następnie przechodzimy do edycji **"Danych kosztowych"** dla tego raportu. Tam można dodać marże dla kosztów pracy oraz zdecydować które koszty materiałów mają być uwzględnione - te określone w [definicji produktu](/produkty), czy te, [wprowadzone dla tego konkretnego zlecenia](/ceny-materialow-dla-zlecenia).
 
-{% include lightbox.html file="dane%20dla%20koszt%C3%B3w.png" alt="Dane kosztów" caption="Dane kosztów" %}
+{% include lightbox.html file="analizyRozliczenieProdukcjiDaneDlaKosztow.png" alt="Dane kosztów" caption="Dane kosztów" %}
 
 {:start="5"} 
 5. Po wprowadzeniu wszystkich zmian wybieramy {% include inline_image.html file="saveIcon24.png" %} **Zapisz** i {% include inline_image.html file="generateIcon24.png" %} **Generuj**.  

diff --git a/pages/administracja/parametry/parametry-dashboard.md b/pages/administracja/parametry/parametry-dashboard.md
@@ -1,0 +1,27 @@
+---
+title: "Parametry dashboardu"
+permalink: parametry-dashboard.html 
+---
+
+Dashboard to strona główna w qcadoo. Możesz, wchodząc w administracja > parametry > dashboard, ustawić co ma być na nim widoczne.
+
+{% include lightbox.html file="administracjaParametryDashboard.png" alt="Parametry dashboardu" caption="Parametry dashboardu" %}
+
+1. **Pokaż wykres dziennej produkcji** - zaznacz parametr, jeśli ma się pojawiać wykres kołowy, przedstawiający ilości do realizacji, w trakcierealizacji i wykonane danego dnia
+
+2. **Widoczne** - do wyboru:
+- _zlecenia produkcyjne_
+- _zadania operacyjne_
+
+Wskaż co chciałbyś widzieć w obszarze tematów do realizacji na dany dzień. 
+
+{:start="3"}
+
+3. **Parametry dodawania zleceń i zadań** - ich wypełnienie jest niezbędne, gdy chcesz korzystać z szybkiego dodawania zleceń / zadań z dashboardu wraz z tworzeniem technologii w tle. Uzupełnij:
+- _operacja_ - pole będzie aktywne, gdy na dashboardzie będą widoczne zlecenia produkcyjne i zlecenia będą z niego dodawane. Zakładamy, że utworzymy dla Ciebie w tle jednooperacyjną technologię. Wskaż jaka operacja ma być w niej uzupełniona (jeśli używasz tej opcji, to zapewne nie interesuje Cię wyodrębnianie każdej czynności, jaka jest konieczna do realizacji w procesie produkcyjnym. Załóż [operację](/operacje) bardzo ogólną, np. produkcja i ją podepnij w parametrach).
+- _magazyn pobrania surowców_ - wskaż z jakiego magazynu pobierasz surowce do produkcji. Uzupełnimy nim technologię, którą założymy do zlecenia dodawanego z dashboardu
+- _magazyn przyjmowania wyrobów_ - wskaż na jaki magazyn będziesz przyjmował wytworzone wyroby. Uzupełnimy nim technologię, którą założymy do zlecenia dodawanego z dashboardu
+
+{:start="4"}
+
+4. **Przyciski szybkiego wybierania** - w tabeli znajdziesz listę przycisków, z których możesz wybrać maksymalnie 6. Pokażemy je na dashboardzie - dzięki temu szybko będziesz mógł przejść do ulubionych funkcjonalności. Wejdź do szczegółów danego przycisku (wiersza w tabeli) i zaznacz parametr _Widoczność_. Możesz ponadto ustawić kolejność prezentacji przycisków - zaznacz wiersz i przesuń w odpowiednie miejsce strzałką umieszczoną nad tabelą. Przyciski na dashboardzie umieszczone są w dwóch kolumnach, po 3 elementy (wypełniamy pierwszą kolumnę i przechodzimy dopiero do kolejnej - jeśli wybierzesz 4 elementy, to będziesz mieć 3 przyciski w lewej kolumnie i 1 w prawej). 

diff --git a/pages/planowanie/plan-na-stacje-i-pracownika/plan-na-stacje-robocza-i-pracownika.md b/pages/planowanie/plan-na-stacje-i-pracownika/plan-na-stacje-robocza-i-pracownika.md
@@ -23,7 +23,7 @@ Zainteresowany takim sposobem działania? Zacznij od odpowiedniej konfiguracji d
 2. określ umiejętności - czyli podaj jakie kwalifikacje trzeba mieć, aby móc wykonywać dane czynności
 3. zdefiniuj [operacje] --> musimy wiedzieć jakie czynności wykonujesz
 4. dla każdej operacji określ [normy czasowe](/normy-czasowe) --> musimy wiedzieć ile trwa każda z operacji. Podanie czasu Tj (czyli czasu wykonania produktu w jednym cyklu), jeśli chcesz aby operacja i kolejne w procesie, zostały rozplanowane. 
-5. do każdej [operacji przyporządkuj stacje robocze](/stacje-robocze-operacji) --> musimy wiedzieć gdzie czynność może być realizowana. Może to być dowolna ilość stacji - postaramy się wybrać na etapie planowania te najodpowiedniejsze w danym momencie
+5. do każdej [operacji przyporządkuj stacje robocze](/stacje-robocze-operacji) --> musimy wiedzieć gdzie czynność może być realizowana. Może to być dowolna ilość stacji (możesz też podać typ stacji roboczych, do którego przypisanych jest wiele stacji) - postaramy się wybrać na etapie planowania te najodpowiedniejsze w danym momencie
 6. każdej [operacji przypisz wymagane umiejętności](/wymagane-umiejetnosci-operacji) --> musimy wiedzieć jakie umiejętności i na jakim poziomie pracownik musi posiadać, aby mógł być do zadania przydzielony
 7. wprowadź [pracowników](/pracownicy) produkcyjnych --> musimy wiedzieć, kto może zadania wykonywać. Jeśli wystarczy Ci plan z przypisaniem zadań do stacji, to pracowników nie musisz definiować - nie są oni niezbędni do planowania
 8. przypisz [pracownikom posiadane umiejętności i określ ich poziom](/pracownicy.html#jak-przypisać-do-pracownika-posiadane-umiejętności) --> musimy wiedzieć kto ma odpowiednie kwalifikacje do realizacji zadania

diff --git a/pages/technologie/technologie/technologie-szczegoly.md b/pages/technologie/technologie/technologie-szczegoly.md
@@ -6,11 +6,11 @@ Do każdego produkowanego w Twojej firmie wyrobu kompletujemy osobną technologi
 
 ## Dodanie nowej technologii
     
-**TECHNOLOGIE  Technologie** {% include inline_image.html file="newIcon24.png" alt="Przycisk Dodaj nową technologię" %} **Dodaj nowy**
+**TECHNOLOGIE > Technologie** {% include inline_image.html file="newIcon24.png" alt="Przycisk Dodaj nową technologię" %} **Dodaj nowy**
 
 {% include lightbox.html file="technologie-technologia-główna.png" alt="Formularz technologii" caption="Formularz technologii" class="float-right" %}
 
- W zakładce "Główna"
+W zakładce "Główna"
 
 1. W pierwszym kroku przy pomocy {% include inline_image.html file="lupka.png" alt="Przycisk lupy" %} wybieramy "Produkt", na który ma powstać technologia. Produkty pobierają się ze zdefiniowanej wcześniej listy [Produktów](/produkty) z "Danych podstawowych". 
 
@@ -162,6 +162,9 @@ Technologia może dotyczyć jednego lub wielu działów.
 Jeśli dotyczy jednego działu - informacje o dziale i linii będą wypełnione w nagłówku. Jeśli wielu - dla każdej operacji z osobna (w dolnej tabeli). Stacje robocze uzupełniane są zawsze na poziomie operacji - kliknij w operację w lewej tabeli, a uaktywni się dodawanie w tabeli prawej. Stacje robocze zaczytywane są z danych domyślnych zdefiniowanych w [operacji](/stacje-robocze-operacji).
 
 Jeśli technologia ma zasięg = 1 dział i wskażesz dział i linie, to zostaną one podpowiedziane przy tworzeniu zleceń produkcyjnych.
+
+{% include callout.html content="Zasięg w technologii może podpowiedzieć się z [parametów](/parametry-technologia.html#zasięg)." type="warning" %}
+
 
 ## Przepływy technologii ##
 

diff --git a/pages/porady-i-triki/import-z-excel.md b/pages/porady-i-triki/import-z-excel.md
@@ -12,7 +12,9 @@ Jakie dane możesz zaimportować? Są to między innymi:
 - [produkty wejściowe technologii](/technologie-szczegoly.html#import-produktów-wejściowych-technologii-z-excela)
 - [stacje robocze](/stacje-robocze.html#jak-zaimportowa%C4%87-stacje-robocze-z-arkusza-excel)
 - [pracowników](/pracownicy.html#jak-dodać-pracowników-poprzez-import-z-arkusza-excel)
-- operacje
+- [operacje](/operacje.html#import-operacji-z-pliku-excel)
+- [zamówienia sprzedaży](/zlecenia-nadrzedne.html#import-zamówień-sprzedaży-z-pliku-xlsx)
+- [zlecenia produkcyjne](/zlecenia-produkcyjne.html#tworzenie-zleceń-poprzez-import-z-akrusza-excel)
 
 
 Aby zaimportować dane wejdź do danej listy (np. Podstawowe > Produkty) i kliknij przycisk Importuj z XLSX (np. {% include inline_image.html file="przyciskImportujPozycjeZXLXS.png" alt="Przycisk Importuj pozycje z XLSX" %}):

diff --git a/pages/magazyn/magazyny.md b/pages/magazyn/magazyny.md
@@ -28,7 +28,7 @@ Praktyki są takie, że definiuje się co najmniej dwa magazyny: surowców i wyr
 
 Aby wprowadzić magazyn wejdź w Magazyn > Magazyny i kliknij {% include inline_image.html file="newIcon24.png" alt="Przycisk Dodaj nowy wydruk" %} **Dodaj nowy**
 
-Podaj numer i nazwę. A jako typ ustaw _magazyn z zasobami_. Zapisz. I gotowe. 
+Podaj numer i nazwę. Zapisz. I gotowe. 
 
 Teraz dla magazynu warto ustawić parametry w zakładce: _Metoda rozchodu i atrybuty dokumentów_:
 - wybierz **metodę, wg której zasoby mają być wydawane z magazynu**. Dostepne wartości to: FIFO (pierwsze przyszło, pierwsze wyszło), LIFO (ostatnie przyszło, pierwsze wyszło), FEFO (pierwsze traci ważność, pierwsze wyszło). LEFO (ostatnie traci ważność, pierwsze wyszło)
